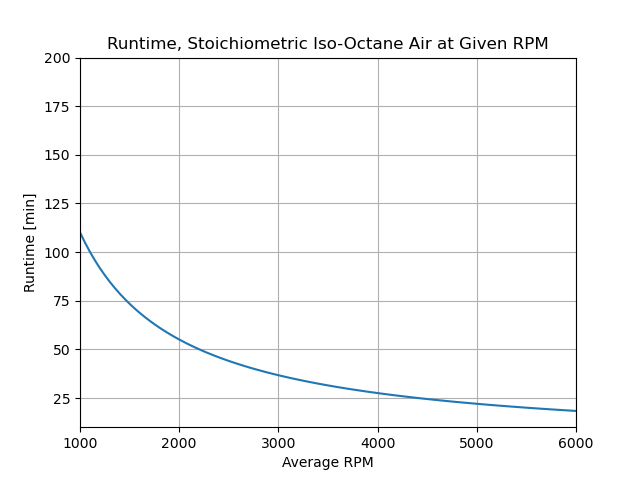
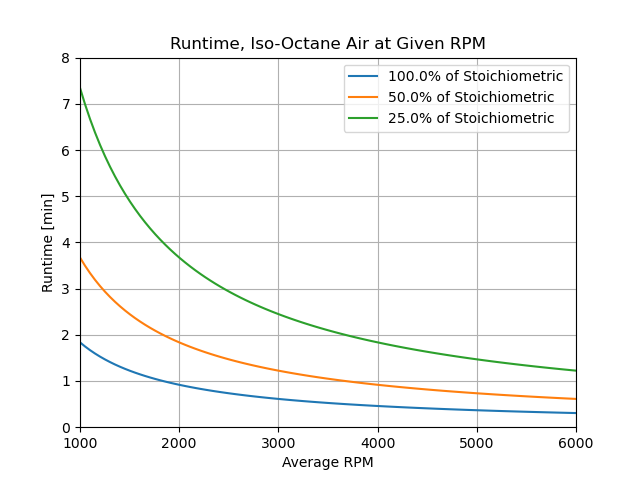
FInished iso-octane!!!

diff --git a/isooctane_analysis.py b/isooctane_analysis.py
@@ -244,36 +244,37 @@ def SV(excess,t1, p1, points):
     p41 = air.p(T=t_14, v=v41_air)/1000
     
     return v12_sp, v23_sp, v34_sp, v41_sp, v1_sp, v2_sp, v3_sp, v4_sp, \
-        p1, p2, p3, p4, p12, p23, p34, p41, t1, t2, t3, t4, t_12, t_23, t_34, t_14
+        p1, p2, p3, p4, p12, p23, p34, p41, t1, t2, t3, t4, t_12, t_23, t_34, t_14,\
+            s_air_1, s_air_2, s_air_3, s_air_4, kg_iso
 
-excesses = np.array([0.25, 0.5, 1])
+excesses = np.array([1, 0.5, 0.25])
 
 fig2 = plt.figure()
 c = 0
 for e in excesses:
+    v12_sp, v23_sp, v34_sp, v41_sp, v1_sp, v2_sp, v3_sp, v4_sp, p1, p2, p3, p4, p12, p23, p34, p41, t1, t2, t3, t4, t_12, t_23, t_34, t_14, s_air_1, s_air_2, s_air_3, s_air_4, kg_iso = SV(e, t1, p1, 20)
     if c == 0:
-        color = 'g'
+        color = 'r'
+        plt.annotate('1',xy=(v1_sp,p1/1000),horizontalalignment='left', verticalalignment='top', fontsize=20)         
+        plt.annotate('2',xy=(v2_sp,p2/1000),horizontalalignment='left', verticalalignment='top', fontsize=20)         
+        plt.annotate('3',xy=(v3_sp,p3/1000),horizontalalignment='left', verticalalignment='top', fontsize=20)         
+        plt.annotate('4',xy=(v4_sp,p4/1000),horizontalalignment='left', verticalalignment='top', fontsize=20)         
+
+        plt.plot(v1_sp, p1/1000, marker="o", label = f'V1 = {v1_sp[0]:.2f}[$m^3$]\nP1 = {p1/1000:.2f}[kPa]')
+        plt.plot(v2_sp, p2/1000, marker="o", label = f'V2 = {v2_sp[0]:.2f}[$m^3$]\nP2 = {p2/1000:.2f}[kPa]')
+        plt.plot(v3_sp, p3/1000, marker="o", label = f'V3 = {v3_sp[0]:.2f}[$m^3$]\nP3 = {p3/1000:.2f}[kPa]')
+        plt.plot(v4_sp, p4/1000, marker="o", label = f'V4 = {v4_sp[0]:.2f}[$m^3$]\nP4 = {p4[0]/1000:.2f}[kPa]')
     elif c==1:
         color = 'b'
     else:
-        color = 'r'
-    v12_sp, v23_sp, v34_sp, v41_sp, v1_sp, v2_sp, v3_sp, v4_sp, p1, p2, p3, p4, p12, p23, p34, p41, t1, t2, t3, t4, t_12, t_23, t_34, t_14 = SV(e, t1, p1, 20)
+        color = 'g'
     plt.plot(v12_sp, p12,f'{color}--',linewidth=1.5, label=f'{e*100}% of Stoichiometric')
     plt.plot([v23_sp,v23_sp],[p2/1000,p3/1000],f'{color}',linewidth=1.5)
     plt.plot(v34_sp, p34,f'{color}--',linewidth=1.5)
     plt.plot([v41_sp[0],v41_sp[0]],[p4[0]/1000,p1/1000],f'{color}',linewidth=1.5)
+    
     c+=1
 
-
-plt.annotate('1',xy=(v1_sp,p1/1000),horizontalalignment='left', verticalalignment='top', fontsize=20)         
-plt.annotate('2',xy=(v2_sp,p2/1000),horizontalalignment='left', verticalalignment='top', fontsize=20)         
-plt.annotate('3',xy=(v3_sp,p3/1000),horizontalalignment='left', verticalalignment='top', fontsize=20)         
-plt.annotate('4',xy=(v4_sp,p4/1000),horizontalalignment='left', verticalalignment='top', fontsize=20)         
-
-plt.plot(v1_sp, p1/1000, marker="o", label = f'V1 = {v1_sp[0]:.2f}[$m^3$]\nP1 = {p1/1000:.2f}[kPa]')
-plt.plot(v2_sp, p2/1000, marker="o", label = f'V2 = {v2_sp[0]:.2f}[$m^3$]\nP2 = {p2/1000:.2f}[kPa]')
-plt.plot(v3_sp, p3/1000, marker="o", label = f'V3 = {v3_sp[0]:.2f}[$m^3$]\nP3 = {p3/1000:.2f}[kPa]')
-plt.plot(v4_sp, p4/1000, marker="o", label = f'V4 = {v4_sp[0]:.2f}[$m^3$]\nP4 = {p4[0]/1000:.2f}[kPa]')
 
 plt.grid()
 plt.legend()
@@ -287,40 +288,38 @@ plt.savefig(f'Iso-octane_graphs/P-V_specific.png')
 ###################
 #       TEMP      #
 ###################
+fig3 = plt.figure()
+
+excesses = np.array([1, 0.5, 0.25])
+c = 0
+for e in excesses:
+    v12_sp, v23_sp, v34_sp, v41_sp, v1_sp, v2_sp, v3_sp, v4_sp, p1, p2, p3, p4, p12, p23, p34, p41, t1, t2, t3, t4, t_12, t_23, t_34, t_14, s_air_1, s_air_2, s_air_3, s_air_4, kg_iso = SV(e, t1, p1, 20)
+    if c == 0:
+        color = 'r'
+        plt.plot(t1, p1/1000, marker="o", label = f'T1 = {t1:.2f}[K]\nP1 = {p1/1000:.2f}[kPa]')
+        plt.plot(t2, p2/1000, marker="o", label = f'T2 = {t2:.2f}[K]\nP2 = {p2/1000:.2f}[kPa]')
+        plt.plot(t3, p3/1000, marker="o", label = f'T3 = {t3:.2f}[K]\nP3 = {p3/1000:.2f}[kPa]')
+        plt.plot(t4, p4/1000, marker="o", label = f'T4 = {t4[0]:.2f}[K]\nP4 = {p4[0]/1000:.2f}[kPa]')
+
+        plt.annotate('1',xy=(t1,p1/1000),horizontalalignment='left', verticalalignment='top', fontsize=20)         
+        plt.annotate('2',xy=(t2,p2/1000),horizontalalignment='left', verticalalignment='top', fontsize=20)         
+        plt.annotate('3',xy=(t3,p3/1000),horizontalalignment='left', verticalalignment='top', fontsize=20)         
+        plt.annotate('4',xy=(t4,p4/1000),horizontalalignment='left', verticalalignment='top', fontsize=20)         
+    elif c==1:
+        color = 'b'
+    else:
+        color = 'g'
+    plt.plot(t_12, p12,f'{color}--',linewidth=1.5, label=f'{e*100}% of Stoichiometric')
+    plt.plot(t_23, p23,f'{color}--',linewidth=1.5)
+    plt.plot(t_34, p34,f'{color}--',linewidth=1.5)
+    plt.plot(t_14, p41,f'{color}--',linewidth=1.5)
+    c+=1
 
 #PLOTTING
-fig3 = plt.figure()
-plt.plot(t1, p1/1000, marker="o", label = f'T1 = {t1:.2f}[K]\nP1 = {p1/1000:.2f}[kPa]')
-plt.plot(t2, p2/1000, marker="o", label = f'T2 = {t2:.2f}[K]\nP2 = {p2/1000:.2f}[kPa]')
-plt.plot(t3, p3/1000, marker="o", label = f'T3 = {t3:.2f}[K]\nP3 = {p3/1000:.2f}[kPa]')
-plt.plot(t4, p4/1000, marker="o", label = f'T4 = {t4[0]:.2f}[K]\nP4 = {p4[0]/1000:.2f}[kPa]')
-
-p12 = air.p(T=t_12, s=s_air_1)/1000
-p23 = air.p(T=t_23, v=v23_air)/1000
-p34 = air.p(T=t_34, s=s_air_3)/1000
-p41 = air.p(T=t_14, v=v41_air)/1000
-
-plt.plot(t_12, p12,'r--',linewidth=1.5)
-plt.plot(t_23, p23,'r--',linewidth=1.5)
-plt.plot(t_34, p34,'r--',linewidth=1.5)
-plt.plot(t_14, p41,'r--',linewidth=1.5)
-
-
-#plt.annotate(f'T1 = {t1:.2f}[K]\nP1 = {p1/1000:.2f}[kPa]',xy=(t1,p1/1000),horizontalalignment='left', verticalalignment='bottom', fontsize=10)  
-plt.annotate('1',xy=(t1,p1/1000),horizontalalignment='left', verticalalignment='top', fontsize=20)         
-
-plt.annotate('2',xy=(t2,p2/1000),horizontalalignment='left', verticalalignment='top', fontsize=20)         
-#plt.annotate(f'T2 = {t2[0]:.2f}[K]\nP2 = {p2[0]/1000:.2f}[kPa]',xy=(t2,p2/1000),horizontalalignment='left', verticalalignment='bottom', fontsize=10)  
-
-plt.annotate('3',xy=(t3,p3/1000),horizontalalignment='left', verticalalignment='top', fontsize=20)         
-#plt.annotate(f'T3 = {t3[0]:.2f}[K]\nP3 = {p3[0]/1000:.2f}[kPa]',xy=(t3,p3/1000),horizontalalignment='right', verticalalignment='top', fontsize=10)  
-
-plt.annotate('4',xy=(t4,p4/1000),horizontalalignment='left', verticalalignment='top', fontsize=20)         
-#plt.annotate(f'T4 = {t4[0]:.2f}[K]\nP4 = {p4[0]/1000:.2f}[kPa]',xy=(t4,p4/1000),horizontalalignment='left', verticalalignment='bottom', fontsize=10)  
 
 plt.xlabel('Temperature [K]')
 plt.ylabel('Pressure [kPa]')
-plt.title(f'80cc Iso-Octane-Air {np.round((excess-1)*100)}% excess Otto Cycle Simulation P-T')
+plt.title(f'80cc Iso-Octane-Air Otto Cycle Simulation P-T')
 
 plt.grid()
 plt.legend()
@@ -335,83 +334,113 @@ plt.savefig(f'Iso-octane_graphs/P-T_{np.round((excess-1)*100)}%_excess.png')
 
 fig4 = plt.figure()
 
-plt.plot(s_air_1, t1, marker="o", label = f'T1 = {t1:.2f}[K]\ns1 = {s_air_1[0]:.2f}[kJ/kg]')
-plt.plot(s_air_2, t2, marker="o", label = f'T2 = {t2:.2f}[K]\ns2 = {s_air_2[0]:.2f}[kJ/kg]')
-plt.plot(s_air_3, t3, marker="o", label = f'T3 = {t3:.2f}[K]\ns3 = {s_air_3[0]:.2f}[kJ/kg]')
-plt.plot(s_air_4, t4, marker="o", label = f'T4 = {t4[0]:.2f}[K]\ns4 = {s_air_4[0]:.2f}[kJ/kg]')
+c = 0
+for e in excesses:
+    v12_sp, v23_sp, v34_sp, v41_sp, v1_sp, v2_sp, v3_sp, v4_sp, p1, p2, p3, p4, p12, p23, p34, p41, t1, t2, t3, t4, t_12, t_23, t_34, t_14, s_air_1, s_air_2, s_air_3, s_air_4, kg_iso = SV(e, t1, p1, 20)
+    if c == 0:
+        color = 'r'
+        plt.plot(s_air_1, t1, marker="o", label = f'T1 = {t1:.2f}[K]\ns1 = {s_air_1[0]:.2f}[kJ/kg]')
+        plt.plot(s_air_2, t2, marker="o", label = f'T2 = {t2:.2f}[K]\ns2 = {s_air_2[0]:.2f}[kJ/kg]')
+        plt.plot(s_air_3, t3, marker="o", label = f'T3 = {t3:.2f}[K]\ns3 = {s_air_3[0]:.2f}[kJ/kg]')
+        plt.plot(s_air_4, t4, marker="o", label = f'T4 = {t4[0]:.2f}[K]\ns4 = {s_air_4[0]:.2f}[kJ/kg]')   
+        
+        plt.annotate('1',xy=(s_air_1, t1),horizontalalignment='left', verticalalignment='top', fontsize=20)         
+        plt.annotate('2',xy=(s_air_2, t2),horizontalalignment='left', verticalalignment='top', fontsize=20)         
+        plt.annotate('3',xy=(s_air_3, t3),horizontalalignment='left', verticalalignment='top', fontsize=20)         
+        plt.annotate('4',xy=(s_air_4, t4),horizontalalignment='left', verticalalignment='top', fontsize=20)         
+         
+    elif c==1:
+        color = 'b'
+    else:
+        color = 'g'
+
+    air_s_14 = air.s(T=t_14, v=v41_sp)
+    air_s_23 = air.s(T=t_23, v=v23_sp)
+    plt.plot([s_air_1[0],s_air_2[0]],[t1,t2],f'{color}',linewidth=1.5,  label=f'{e*100}% of Stoichiometric')
+    plt.plot([s_air_3[0],s_air_4[0]],[t3,t4[0]],f'{color}',linewidth=1.5)
+    plt.plot(air_s_14,t_14,f'{color}--',linewidth=1.5)
+    plt.plot(air_s_23,t_23,f'{color}--',linewidth=1.5)    
+    c+=1
 
 #LINES
-plt.plot([s_air_1[0],s_air_2[0]],[t1,t2],'r',linewidth=1.5)
-plt.plot([s_air_3[0],s_air_4[0]],[t3,t4[0]],'r',linewidth=1.5)
 
-air_s_14 = air.s(T=t_14, v=v41_air)
-air_s_23 = air.s(T=t_23, v=v23_air)
-
-
-gas_14 = (air_s_14)
-plt.plot(gas_14,t_14,'r--',linewidth=1.5)
-
-gas_23 = (air_s_23)
-plt.plot(gas_23,t_23,'r--',linewidth=1.5)
-
-
-plt.annotate('1',xy=(s_air_1, t1),horizontalalignment='left', verticalalignment='top', fontsize=20)         
-
-plt.annotate('2',xy=(s_air_2, t2),horizontalalignment='left', verticalalignment='top', fontsize=20)         
-
-plt.annotate('3',xy=(s_air_3, t3),horizontalalignment='left', verticalalignment='top', fontsize=20)         
-#plt.annotate(f'T3 = {t3:.2f}[K]\nP3 = {s_3[0]:.2f}[kPa]',xy=(t3,s_3),horizontalalignment='right', verticalalignment='top', fontsize=10)  
-
-plt.annotate('4',xy=(s_air_4, t4),horizontalalignment='left', verticalalignment='top', fontsize=20)         
-#plt.annotate(f'T4 = {t4[0]:.2f}[K]\nP4 = {s_4[0]:.2f}[kPa]',xy=(t4,s_4),horizontalalignment='left', verticalalignment='baseline', fontsize=10)  
 
 plt.ylabel('Temperature [K]')
 plt.xlabel('Specific Entropy [kJ/K kg]')
-plt.title(f'80cc Iso-Octane-Air {np.round((excess-1)*100)}% excess Otto Cycle Simulation P-T')
+plt.title(f'80cc Iso-Octane-Air Otto Cycle Simulation P-T')
 plt.grid()
 plt.legend()
 
 plt.ylim(0,5000)
 
-plt.savefig(f'Iso-octane_graphs/T-S_{np.round((excess-1)*100)}%_excess.png')
+plt.savefig(f'Iso-octane_graphs/T-S.png')
 # %%
 ###################
 #     RUNTIME     #
 ###################
 fig5 = plt.figure()
-duty_cycle = np.linspace(0.1,1,100)
-rps = 6000/60
-m_dot_iso = kg_iso*rps*duty_cycle
 
-rho_iso = 690 #[kg/m3]
 
-tank_vol = 1 #[liters]
-m_tot_iso = rho_iso*tank_vol/1000
+c = 0
+for e in excesses:
+    v12_sp, v23_sp, v34_sp, v41_sp, v1_sp, v2_sp, v3_sp, v4_sp, p1, p2, p3, p4, p12, p23, p34, p41, t1, t2, t3, t4, t_12, t_23, t_34, t_14, s_air_1, s_air_2, s_air_3, s_air_4, kg_iso = SV(e, t1, p1, 20)
+    if c == 0:
+        color = 'r'       
+    elif c==1:
+        color = 'b'
+    else:
+        color = 'g' 
+    duty_cycle = np.linspace(0.1,1,100)
+    rps = 6000/60
+    m_dot_iso = kg_iso*rps*duty_cycle
+    rho_iso = 690 #[kg/m3]
+    tank_vol = 1 #[liters]
+    m_tot_iso = rho_iso*tank_vol/1000
+    runtime = (m_tot_iso/m_dot_iso)/60
+    plt.plot(duty_cycle, runtime/60, label=f'{e*100}% of Stoichiometric')
+    c+=1
 
-runtime = (m_tot_iso/m_dot_iso)/60
 
-plt.plot(duty_cycle, runtime)
 plt.xlabel('Duty Cycle')
-plt.ylabel('Runtime [min]')
-plt.title(f'Runtime, {np.round((excess-1)*100)}% excess Iso-Octane Air')
+plt.ylabel('Runtime [hr]')
+plt.title(f'Runtime, Iso-Octane Air')
 plt.grid()
-plt.ylim(10,200)
+plt.ylim(0,15)
 plt.xlim(0.1,1)
-plt.savefig(f'Iso-octane_graphs/runtime_duty_cycle_{np.round((excess-1)*100)}%_excess.png')
+plt.legend()
+plt.savefig(f'Iso-octane_graphs/runtime_duty_cycle.png')
+
 # %%
 fig6 = plt.figure
-avg_rpm = np.linspace(1000,6000,100)
-rps = avg_rpm/60
-m_dot_iso_a = kg_iso*rps
 
-runtime = (m_tot_iso/m_dot_iso_a)/60
+c = 0
+for e in excesses:
+    v12_sp, v23_sp, v34_sp, v41_sp, v1_sp, v2_sp, v3_sp, v4_sp, p1, p2, p3, p4, p12, p23, p34, p41, t1, t2, t3, t4, t_12, t_23, t_34, t_14, s_air_1, s_air_2, s_air_3, s_air_4, kg_iso = SV(e, t1, p1, 20)
+    if c == 0:
+        color = 'r'       
+    elif c==1:
+        color = 'b'
+    else:
+        color = 'g' 
+    avg_rpm = np.linspace(1000,6000,100)
+    rps = avg_rpm/60
+    rho_iso = 690 #[kg/m3]
+    tank_vol = 1 #[liters]
+    m_tot_iso = rho_iso*tank_vol/1000
+    m_dot_iso_a = kg_iso*rps
+    runtime = (m_tot_iso/m_dot_iso_a)/60
+    
+    plt.plot(avg_rpm, runtime/60, label=f'{e*100}% of Stoichiometric')
+    c+=1
+
 
 plt.plot(avg_rpm, runtime)
 plt.xlabel('Average RPM')
 plt.ylabel('Runtime [min]')
-plt.title(f'Runtime, {np.round((excess-1)*100)}% excess Iso-Octane Air at Given RPM')
+plt.title(f'Runtime, Iso-Octane Air at Given RPM')
 plt.grid()
-plt.ylim(10,200)
+plt.ylim(0,8)
 plt.xlim(1000,6000)
-plt.savefig(f'Iso-octane_graphs/runtime_rpm_{np.round((excess-1)*100)}%_excess.png')
+plt.legend()
+plt.savefig(f'Iso-octane_graphs/runtime_rpm.png')
 # %%
